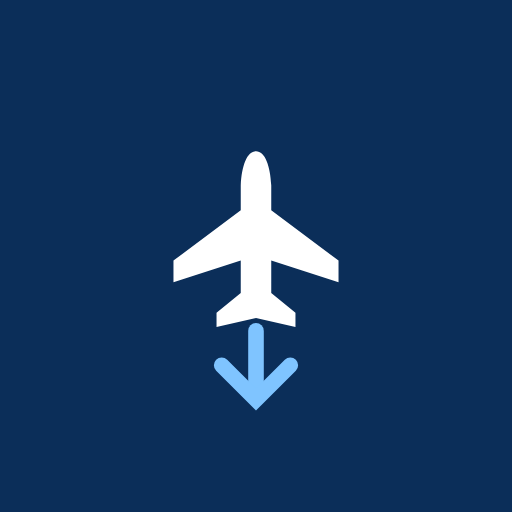
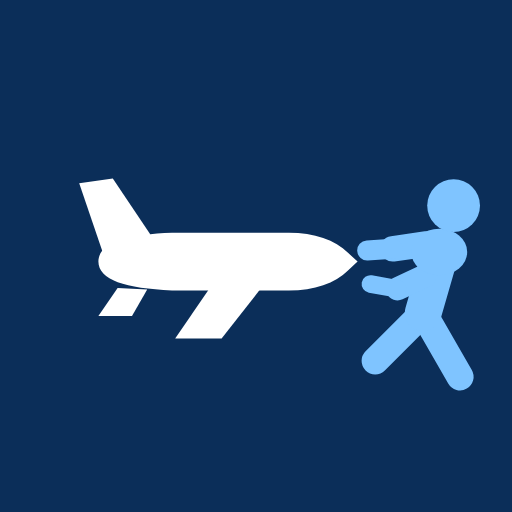
아이콘을 캐릭터가 항공기를 미는 그림으로 변경
- 앱 이름 '밀어요'에 맞춰 근육질 캐릭터가 기수를 미는 형태로 재제작
- 48px 축소 상태에서도 미는 동작이 읽히도록 팔·다리 간격 조정
- 512px 렌더 후 고품질 축소로 192px 생성, 중앙 안전영역 유지
- sw 캐시 버전 v148

Changed region(s): [[0.1562, 0.2812, 0.9375, 0.8125]]

diff --git a/sw.js b/sw.js
@@ -1,4 +1,4 @@
-const C="pushback-v147";
+const C="pushback-v148";
 const SHELL=["./","./index.html","./gates.js","./manifest.json","./icon-192.png"];
 
 self.addEventListener("install", e=>{
